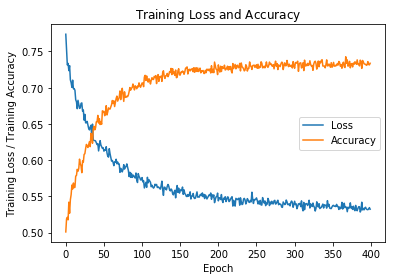
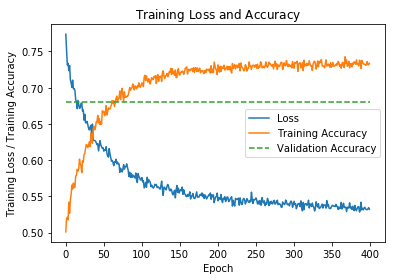
start på discussion of results og et plot

diff --git a/report/Report.tex b/report/Report.tex
@@ -514,7 +514,7 @@
 	
 	
 	\subsection{Discussion of results}
-	
+	This section will focus on the efficacy and reliability of the results of the project, given in section \ref{results}. From the figure \ref{fig:losscurve}, it is clear that 400 epochs seems to let the binary classifier train to near completion, since the value of the binary cross-entroy training loss could still get slightly lower. Meanwhile, it is also clear that the training loss has not started rising after reaching a minimum value, so the network has not started overfitting the training data. This means that the validation accuracy will be higher after training than if the model had overfit the training data.
 	
 	\subsection{Ethical dilemma of bias}
 	
